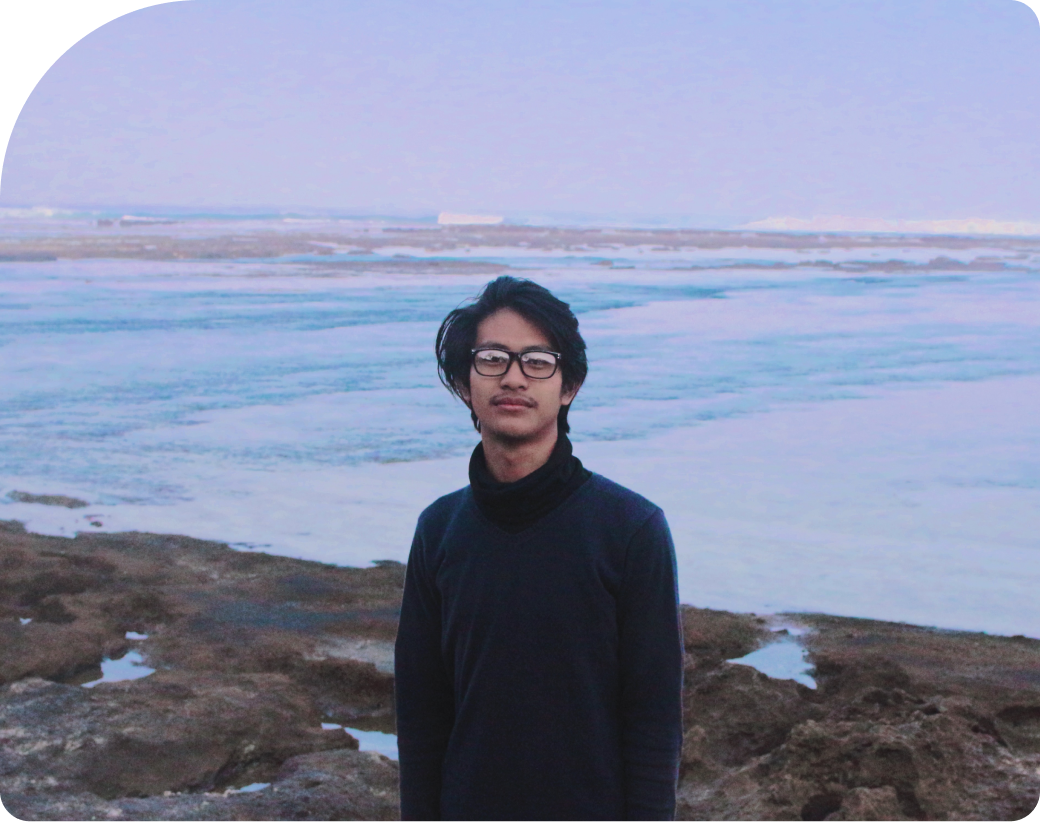
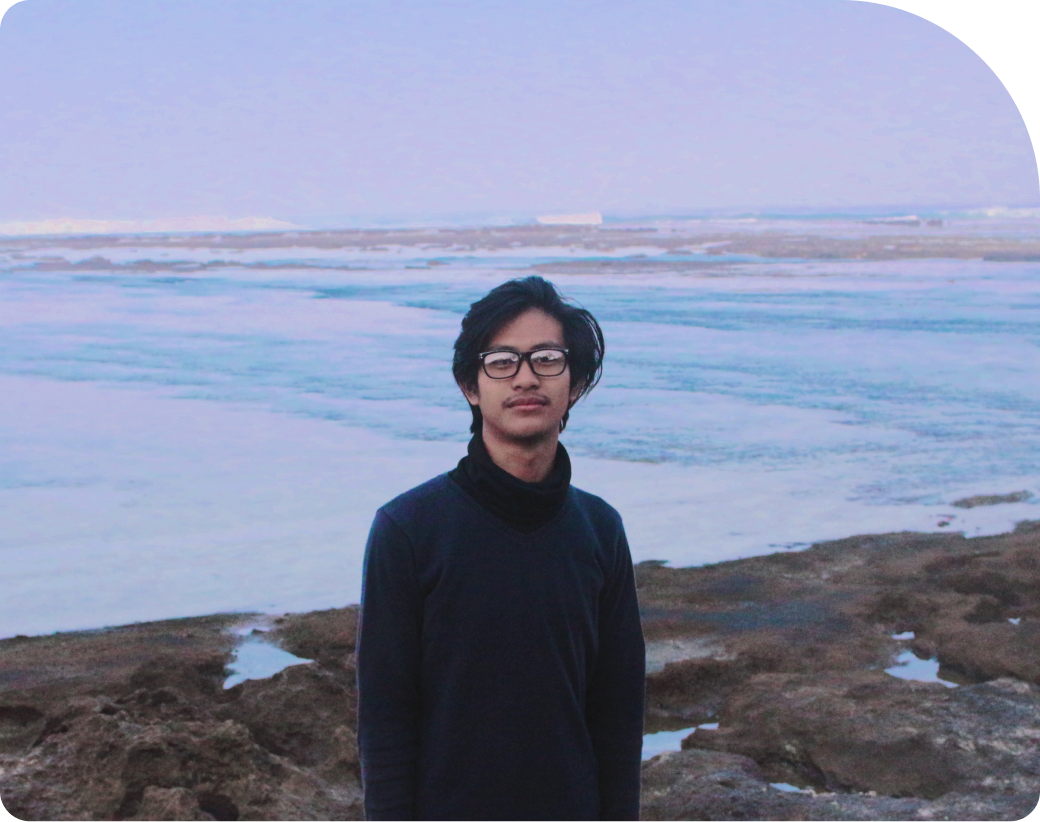
change position hero

diff --git a/src/parts/Hero.js b/src/parts/Hero.js
@@ -16,9 +16,25 @@ export default function Hero(props) {
 
   return (
     <Fade bottom>
-      <section className="container pt-4" style={{ margin: '120px auto' }}>
+      <section className="container hero" style={{ margin: '120px auto' }}>
         <div className="row align-items-center">
-          <div className="col-auto pr-5" style={{ width: 530 }}>
+          <div className="col-auto hero-card mr-5">
+            <div style={{ width: 450, height: 380 }}>
+              <img
+                src={ImageHero}
+                alt="profile pict"
+                className="img-fluid position-absolute"
+                style={{ margin: '-30px -15px -15px 0', zIndex: 1 }}
+              />
+              <img
+                src={ImageHero_}
+                alt="profile pict frame"
+                className="img-fluid position-absolute"
+                style={{ margin: '0 0 0 -30px' }}
+              />
+            </div>
+          </div>
+          <div className=" col-6  px-5" style={{ width: 530 }}>
             <h1 className="h2 font-weight-bold line-height-1 mb-3">
               Hello, Holla, こんにちは👋, <br />
               I'm Nico Gulo <br />a Frontend Web Developer
@@ -32,23 +48,6 @@ export default function Hero(props) {
             >
               Scroll Down
             </Button>
-          </div>
-
-          <div className="col-6 pl-5">
-            <div style={{ width: 520, height: 410 }}>
-              <img
-                src={ImageHero}
-                alt="profile pict"
-                className="img-fluid position-absolute"
-                style={{ margin: '-30px 0 0 -30px', zIndex: 1 }}
-              />
-              <img
-                src={ImageHero_}
-                alt="profile pict frame"
-                className="img-fluid position-absolute"
-                style={{ margin: '0 -15px -15px 0' }}
-              />
-            </div>
           </div>
         </div>
       </section>

diff --git a/src/assets/scss/style.scss b/src/assets/scss/style.scss
@@ -88,6 +88,25 @@ header {
       }
     }
   }
+  @media only screen and (max-width: 640px) {
+    background: black;
+  }
+}
+
+.hero {
+  @media only screen and (max-width: 640px) {
+    h1 {
+      text-align: center;
+    }
+    button {
+      .btn-lang {
+        background-color: black;
+      }
+    }
+    .hero-card {
+      margin: 50px auto;
+    }
+  }
 }
 
 section {
